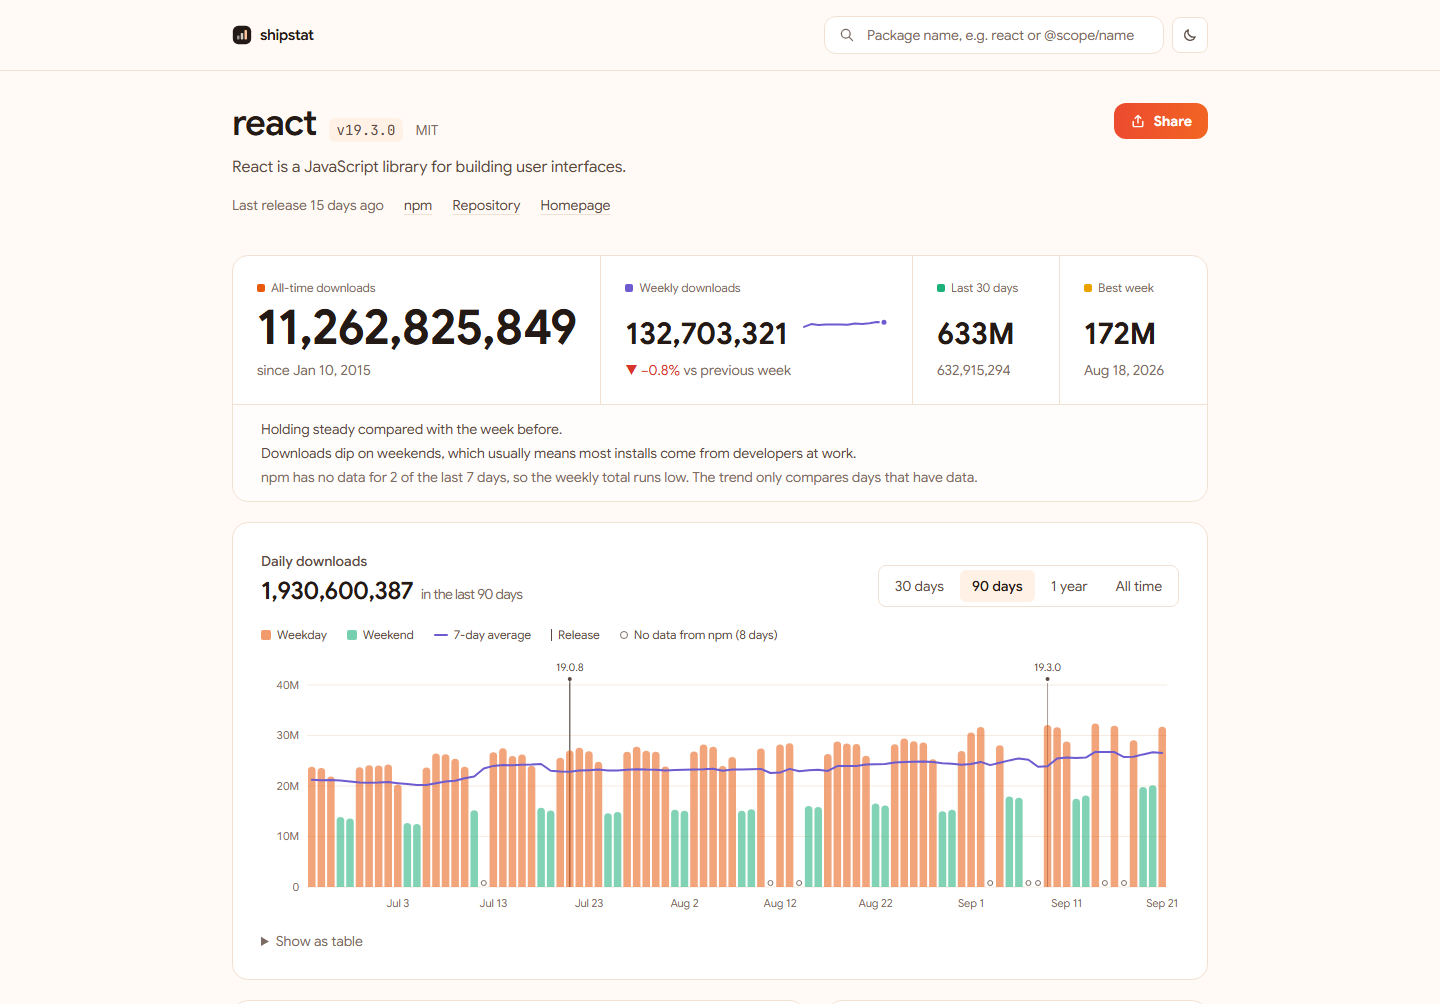
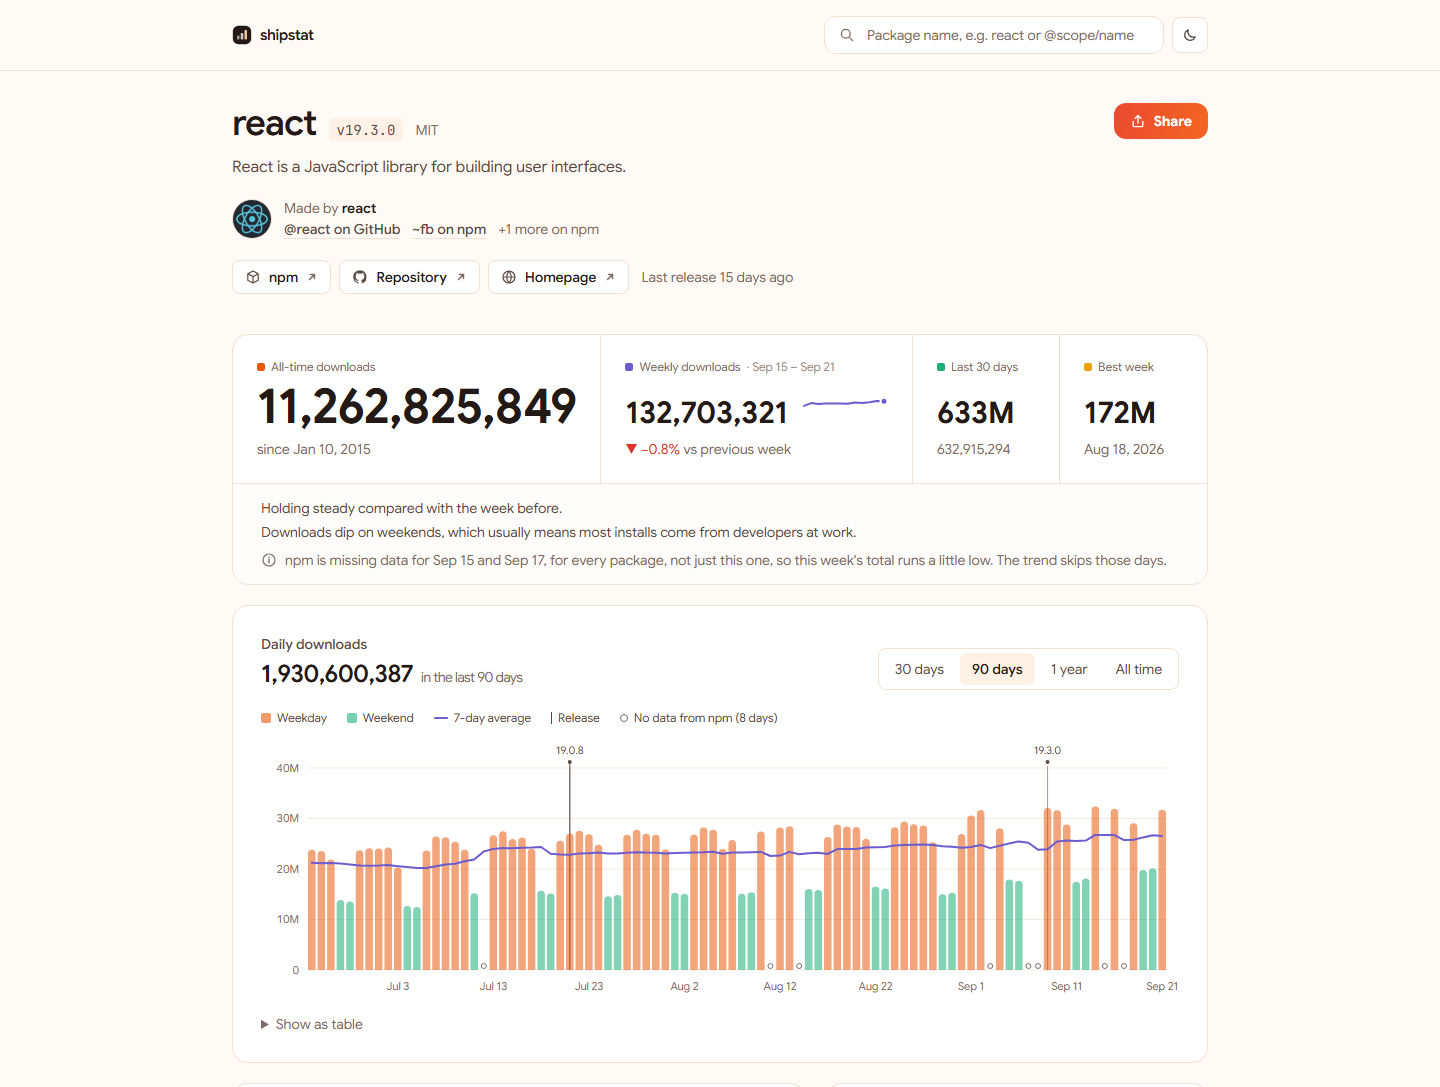
Update README package page screenshot
- Retake the react package page: "Made by" line, link buttons, weekly
  date range and the npm missing-data note
- Mention the developer credit in "What you get"

diff --git a/README.md b/README.md
@@ -34,9 +34,10 @@ shipstat shows only what npm actually reports, and explains what the numbers mea
 ## What you get
 
 <p align="center">
-  <img src="docs/images/package.png" alt="Package page for react: all-time and weekly downloads, trend, and a daily chart with weekday and weekend bars, a 7-day average and release markers" width="100%">
+  <img src="docs/images/package.png" alt="Package page for react: who made it, links to npm, the repository and homepage, all-time and weekly downloads, and a daily chart with weekday and weekend bars, a 7-day average and release markers" width="100%">
 </p>
 
+- **Credit where it's due.** Every package shows who made it, with their GitHub avatar and links to their GitHub and npm profiles.
 - **All-time downloads up front,** with weekly downloads, week-over-week trend, the last 30 days and the best week next to them.
 - **A chart that explains itself.** Daily bars split into weekdays and weekends, a 7-day average, and a marker for every release, so the jump after `v2.0` is right there. Switch between 30 days, 90 days, 1 year and all time. Every point has a hover tooltip, keyboard support and a table view.
 - **Plain-English insights,** such as *"Downloads dip on weekends, which usually means most installs come from developers at work."*
